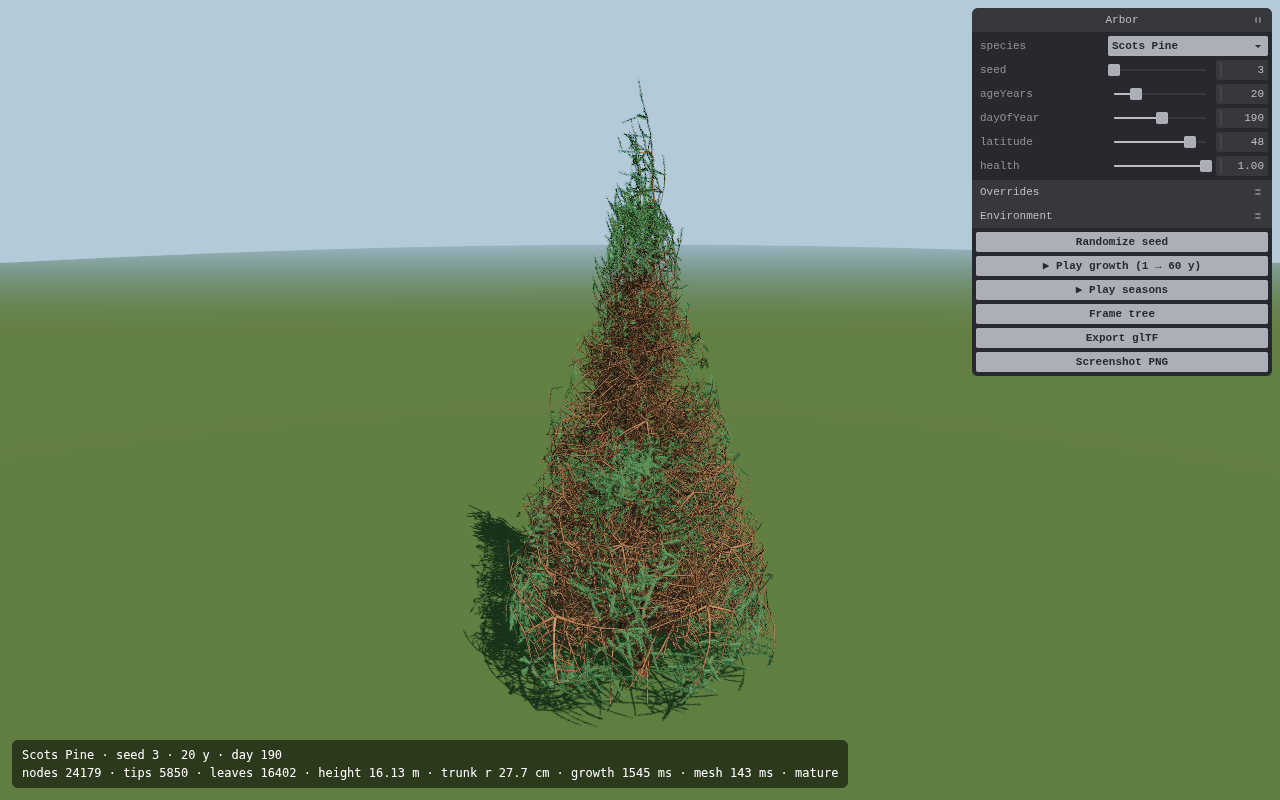
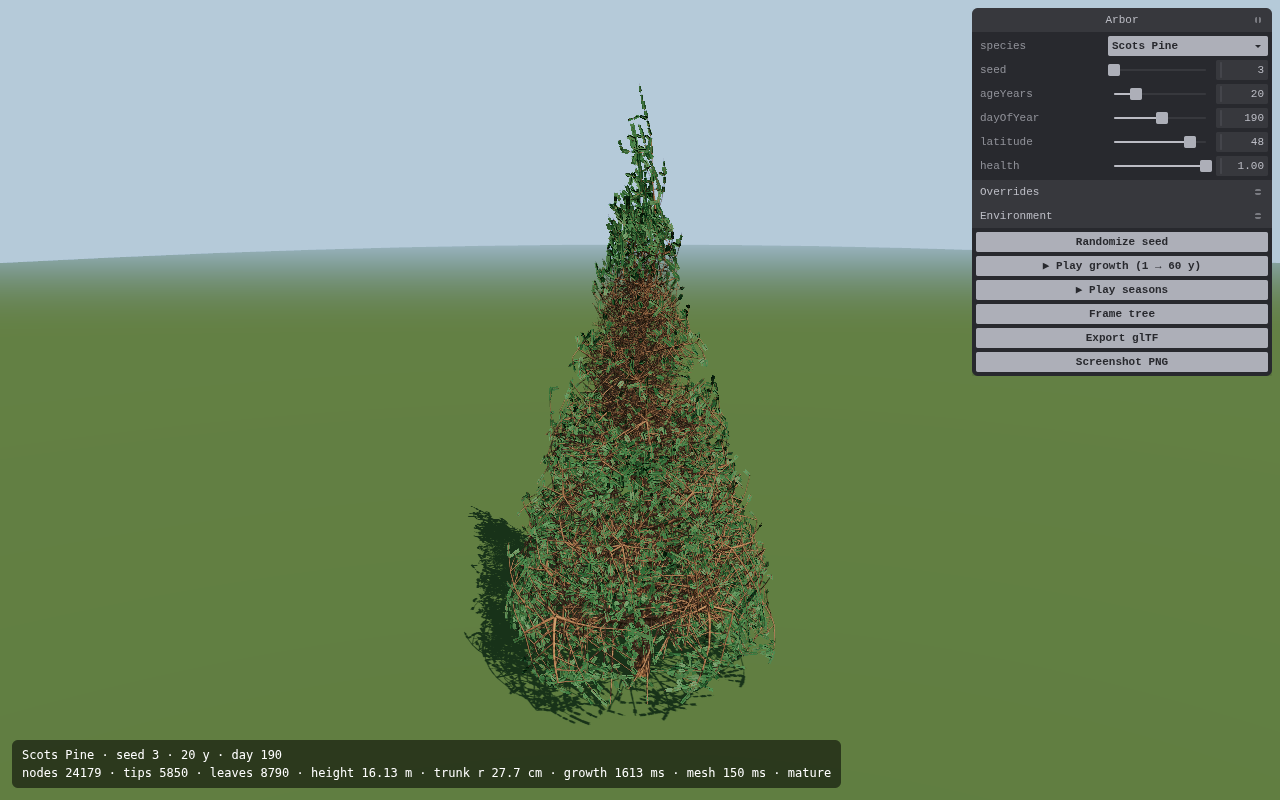
docs: 09-07 进度日志、拼板截图（垂柳/云杉/白蜡）、针叶枝贴图样例、待办更新
Claude-Session: https://claude.ai/code/session_0185mQWy4dSyUPnLR5vKwA3x

Changed region(s): [[0.375, 0.1562, 0.5938, 0.9062], [0.25, 0.9375, 0.6875, 0.9688]]

diff --git a/docs/plant-gen/00-立项书.md b/docs/plant-gen/00-立项书.md
@@ -89,7 +89,7 @@
 最新冒烟渲染（无头 Chromium，WebGL2 回退路径）见 `img/`：`smoke-oak-25y-summer.png`、`smoke-birch-20y-autumn.png`、`smoke-pine-20y.png`、`smoke-maple-18y-autumn.png`、`smoke-oak-25y-wall.png`（贴墙生长）。数据表见下方「进度日志」。
 
 **已知问题（P0 待办，按优先级）**
-0. 桦树等细枝多的物种在整树视距下仍像「线团」：细枝被栅格化放大且叶片小；需要叶簇更大/更密、远景细枝淡出（LOD）与更强的细枝死亡率（待办 A9）。
+0. 桦树、野樱等细枝多的物种在整树视距下仍偏「线团」：细枝被栅格化放大、冠内老梢无叶；根因是节点预算冻结后没有稳态更新（待办 A9）。针叶树的细枝呈橙色（树皮色系在细枝上过亮），需把嫩枝色应用到更大的半径范围。
 1. 性能：25 年树从零生成约 0.5–1.2 s（单线程 TS，优化后）。年龄与季节滑条为增量（PlantSession：向前只算新增年份，换日期只重建叶片，30–150 ms）。剩余热点是赤松成千末梢芽的锥形感知查询。
 2. 赤松针叶密度仍低于真实（针叶簇为无贴图几何）；材质与 alpha 卡片在 P1。
 3. 叶片仍是无贴图单色卡片；树皮为单色。
@@ -102,6 +102,7 @@
 | 09-06 上午 | 内核 + 查看器首个可运行版本 | 21k 节点 / 3.2k 末梢 / 1.2 s | 36k / 8.9k / 1.3 s | 17k / 3.7k / 1.9 s，线团状 |
 | 09-06 下午 | 木质自重下垂、分叉偏折、侧枝长度上限、针叶刷几何、增量生长会话、休眠芽感知缓存 | 24k / 4.0k | 29k / 7.0k | 17k / 5.9k，层状轮枝 |
 | 09-06 晚 | 稠密网格标记场、按标记点刷新占用、3 年一结算的下垂、第四物种挪威槭、环境障碍（墙）避让与遮荫 |
+| 09-07 | 12 物种对照拼板（`pnpm contact-sheet`）；针叶物种改为带贴图的十字交叉针叶枝卡片；小叶 5 叶簇；预算冻结树的挂叶修正（垂柳此前零叶）；冠内枯枝清理（脱落阈值） | 松/云杉开始读作针叶绿团 | 垂柳成为带垂枝的绿丘 | 白蜡羽状复叶可辨 |
 | 09-06 深夜 | 外观优先：叶形族生成器（单叶/裂叶/掌状/羽状/针叶）→ 程序化叶片贴图（反照率/alpha/法线）与 3 叶簇卡片；7 族程序化树皮；按半径的嫩枝色；修正枝干绕序（此前树皮始终背光）；枯枝保留；幼年分枝区；物种扩到 12 并加校验脚本 | 60 年整树 11.0 s → 2.7 s | 13.3 s → 2.5 s | 3.9 s → 2.9 s |
 
 ## 9. 决策请求

diff --git a/docs/plant-gen/03-P0-待办与验收.md b/docs/plant-gen/03-P0-待办与验收.md
@@ -8,7 +8,7 @@
 |---|---|---|---|
 | A1 | 自组织生长（光 + 空间 + 资源分配 + 脱落 + 管道模型） | ☑ | `growth.test.ts` 全绿；三物种 30 年内包络填充率 > 90% |
 | A2 | 木质自重下垂与分叉偏折 | ☑ | `gravitational sag` 测试；栎冠形由「扫帚」变为展开 |
-| A3 | 针叶物种：轮枝、平展侧枝、针叶刷 | ◐ | 赤松 20 年剪影为层状圆锥；针叶密度盲评 ≥ 3/5 |
+| A3 | 针叶物种：轮枝、平展侧枝、针叶枝卡片 | ◐ | 赤松/云杉已读作绿色圆锥；待办：细枝色过橙、针叶枝卡片密度与颜色深度、冬季色 |
 | A4 | 枯枝保留（脱落后保留为死枝若干年） | ☑ | `deadBranchYears` 逐种设置（松 6、云杉 8、栎 5）；`dead wood retention` 测试：死枝无叶、半径冻结、到期脱落 |
 | A5 | 物种扩到 12 个（P0），60（P1），200+（P2） | ◐ 12/12 已定义，外观待验 | 每物种过盲评 ≥ 3/5；`species/README.md` 记录辨识特征 |
 | A6 | 环境障碍：盒体/球体障碍，生长避让与遮光（网格 SDF 待做） | ◐ | `environment obstacles` 测试：墙内零节点、冠心偏离 ≥ 0.3 m；冒烟 `oak-wall.png` |
